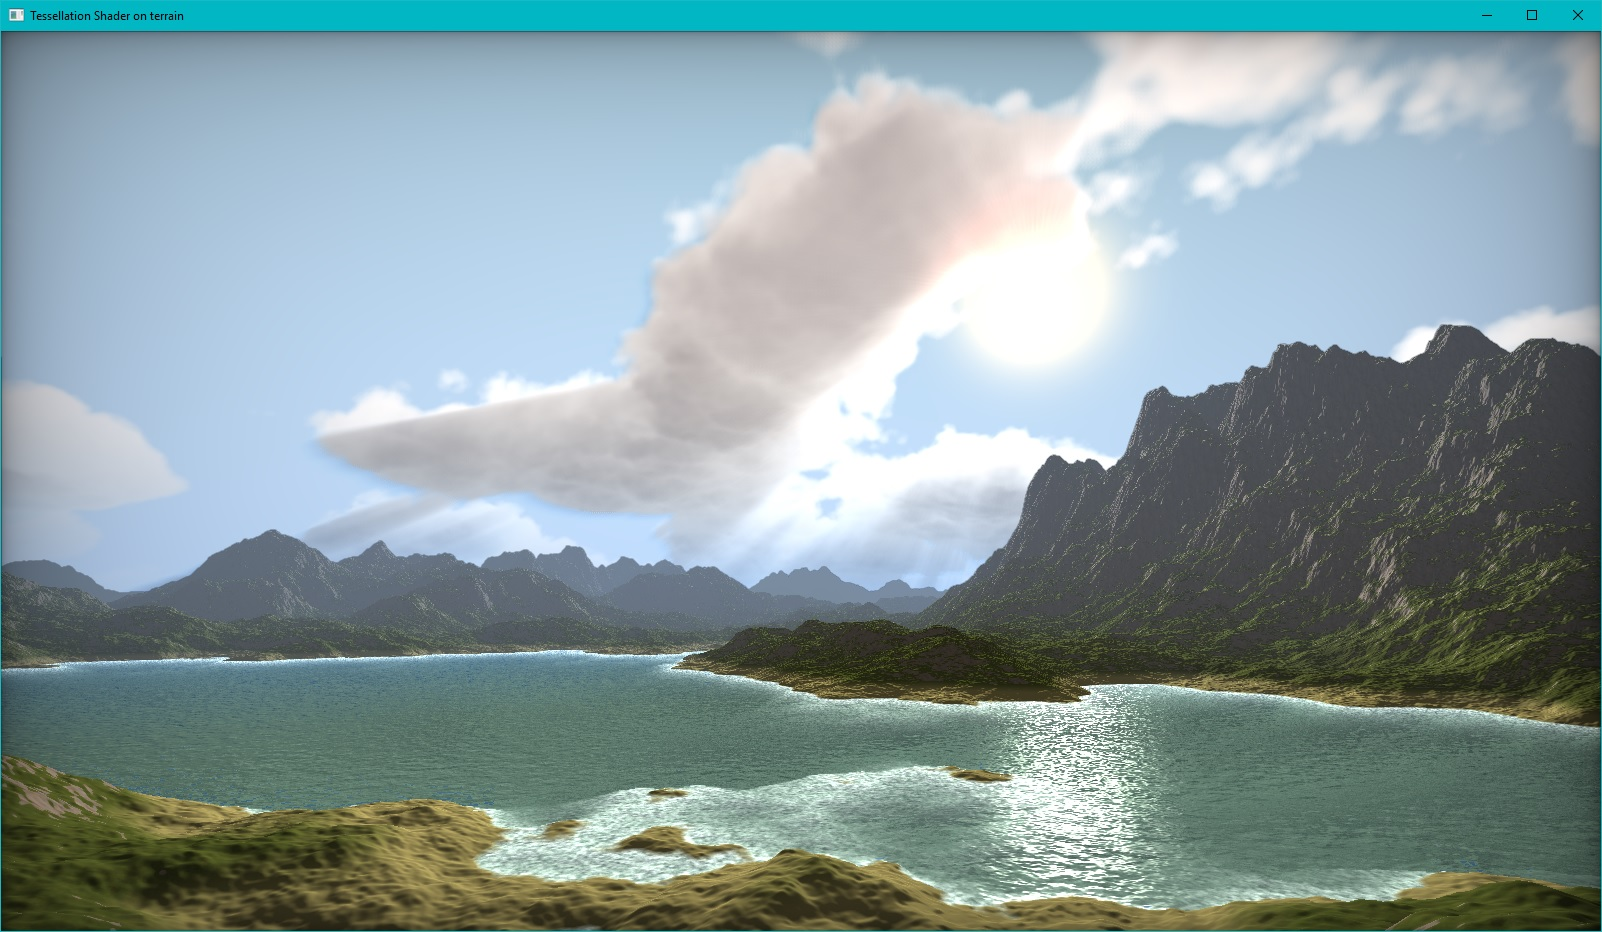
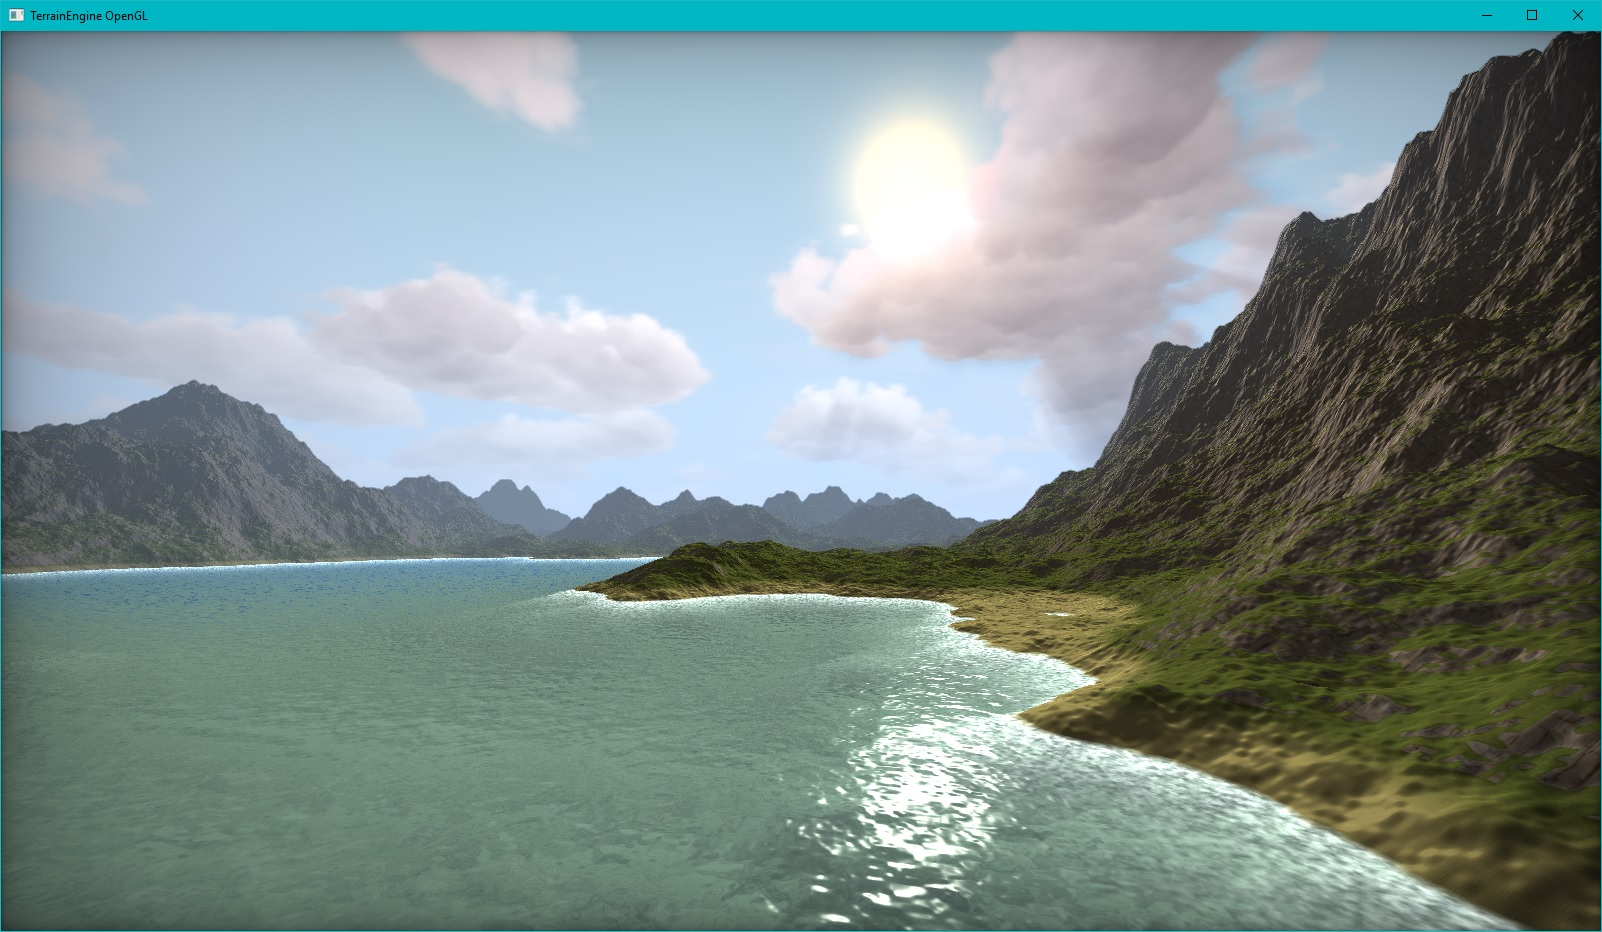
Implement Temporal Reprojection to Clouds rendering increasing performances

diff --git a/VolumetricClouds.cpp b/VolumetricClouds.cpp
@@ -11,7 +11,7 @@ VolumetricClouds::VolumetricClouds(int SW, int SH, Camera * cam): SCR_WIDTH(SW),
 	cloudsPostProcessingFBO = new FrameBufferObject(SW, SH, 2);
 	lastFrameCloudsFBO = new FrameBufferObject(SH, SH, 2);
 
-	this->coverage = 0.4;
+	this->coverage = 0.3;
 
 	/////////////////// TEXTURE GENERATION //////////////////
 
@@ -61,7 +61,7 @@ VolumetricClouds::VolumetricClouds(int SW, int SH, Camera * cam): SCR_WIDTH(SW),
 #define TIMETO(CODE, TASK) 	t1 = glfwGetTime(); CODE; t2 = glfwGetTime(); std::cout << "Time to " + std::string(TASK) + " :" << (t2 - t1)*1e3 << "ms" << std::endl;
 
 
-void VolumetricClouds::draw(glm::mat4 view, glm::mat4 proj, glm::vec3 lightPosition, unsigned int depthMapTex) {
+void VolumetricClouds::draw(glm::mat4 view, glm::mat4 proj, glm::vec3 lightPosition, glm::vec3 lightColor, unsigned int depthMapTex) {
 
 	float t1, t2;
 
@@ -76,7 +76,9 @@ void VolumetricClouds::draw(glm::mat4 view, glm::mat4 proj, glm::vec3 lightPosit
 	cloudsShader.setVec3("cameraPosition", camera->Position);
 	cloudsShader.setFloat("FOV", camera->Zoom);
 	cloudsShader.setVec3("lightPosition", lightPosition);
+	cloudsShader.setVec3("lightColor", lightColor);
 	cloudsShader.setFloat("coverage_multiplier", coverage);
+	cloudsShader.setInt("frameIter", frameIter);
 
 	cloudsShader.setMat4("invViewProj", glm::inverse(proj*view));
 	cloudsShader.setMat4("oldFrameVP", oldFrameVP);
@@ -141,6 +143,9 @@ void VolumetricClouds::draw(glm::mat4 view, glm::mat4 proj, glm::vec3 lightPosit
 
 	//copy last VP matrix
 	oldFrameVP = proj * view;
+
+	//increment frame counter mod 16, for temporal reprojection
+	frameIter = (frameIter + 1)%16;
 }
 
 

diff --git a/Main.cpp b/Main.cpp
@@ -172,6 +172,7 @@ int main()
 
 	while (window.continueLoop())
 	{
+		//glfwSwapInterval(0);
 
 		octaves = getters[1]();
 		df = getters[2]();
@@ -212,6 +213,8 @@ int main()
 		SceneFBO.bind();
 		// render
 		//glEnable(GL_MULTISAMPLE);
+		//glEnable(GL_FRAMEBUFFER_SRGB); //gamma correction
+
 		glEnable(GL_DEPTH_TEST);
 		glEnable(GL_CULL_FACE);
 		glCullFace(GL_BACK);
@@ -235,19 +238,20 @@ int main()
 		glm::mat4 proj = glm::perspective(glm::radians(camera.Zoom), (float)Window::SCR_WIDTH / (float)Window::SCR_HEIGHT, 50.f,10000000.0f);
 
 		// draw terrain
-		//tc.drawTiles(proj, lightPosition, lightColor, fogColor, SceneFBO);
+		tc.drawTiles(proj, lightPosition, lightColor, fogColor, SceneFBO);
 
 		//disable test for quad rendering
 		ScreenQuad::disableTests();
 
 		// scene post processing - blending between main scene texture and clouds texture
 
-		volumetricClouds.draw(view, proj, lightPosition, SceneFBO.depthTex);
+		volumetricClouds.draw(view, proj, lightPosition, lightColor, SceneFBO.depthTex);
 
+		// blend volumetric clouds rendering with terrain and apply some post process
 		unbindCurrentFrameBuffer();
 		Shader& post = PostProcessing.getShader();
 		post.use();
-
+		post.setVec2("resolution", glm::vec2(Window::SCR_WIDTH, Window::SCR_HEIGHT));
 		post.setSampler2D("screenTexture", SceneFBO.tex, 0);
 		post.setSampler2D("cloudTEX", volumetricClouds.getCloudsTexture(), 1);
 

diff --git a/Window.cpp b/Window.cpp
@@ -8,7 +8,7 @@ float Window::lastX = SCR_WIDTH / 2.0f;
 float Window::lastY = SCR_HEIGHT / 2.0f;
 
 
-Window::Window(int& success, Camera * cam)
+Window::Window(int& success, Camera * cam, std::string name) : name(name)
 {
 	// glfw: initialize and configure
 	glfwInit();
@@ -18,7 +18,7 @@ Window::Window(int& success, Camera * cam)
 	glfwWindowHint(GLFW_SAMPLES, 4);
 
 	// glfw window creation										 
-	this->w = glfwCreateWindow(SCR_WIDTH, SCR_HEIGHT, "Tessellation Shader on terrain", NULL, NULL);
+	this->w = glfwCreateWindow(SCR_WIDTH, SCR_HEIGHT, name.c_str(), NULL, NULL);
 	if (!this->w)
 	{
 		std::cout << "Failed to create GLFW window" << std::endl;

diff --git a/VolumetricClouds.h b/VolumetricClouds.h
@@ -13,7 +13,7 @@ class VolumetricClouds
 {
 public:
 	VolumetricClouds(int SW, int SH, Camera * cam);
-	void draw(glm::mat4 view, glm::mat4 proj, glm::vec3 lightPosition, unsigned int depthMap);
+	void draw(glm::mat4 view, glm::mat4 proj, glm::vec3 lightPosition, glm::vec3 lightColor, unsigned int depthMap);
 	~VolumetricClouds();
 
 	unsigned int getCloudsTexture() {
@@ -35,7 +35,7 @@ private:
 	float coverage;
 	Camera * camera;
 	ScreenQuad * volumetricCloudsShader, * ppShader, * copyShader;
-
+	int frameIter = 0;
 	FrameBufferObject * cloudsFBO, *cloudsPostProcessingFBO, * lastFrameCloudsFBO;
 
 	unsigned int perlinTex, worley32, weatherTex;

diff --git a/TileController.cpp b/TileController.cpp
@@ -28,7 +28,7 @@ TileController::TileController(float scale, float disp, Camera * camera, Tessell
 	dudvMap = TextureFromFile("waterDUDV.png", "resources", false);
 	normalMap = TextureFromFile("normalMap.png", "resources", false);
 
-	waterHeight = 128.0;
+	waterHeight = 128.0 + 50.0;
 
 	position.resize(gridLenght*gridLenght);
 	for (int i = 0; i < gridLenght; i++) {

diff --git a/Window.h b/Window.h
@@ -11,7 +11,7 @@ class Window
 {
 public:
 	//initializer
-	Window(int& success, Camera * cam);
+	Window(int& success, Camera * cam, std::string name = "TerrainEngine OpenGL");
 	~Window();
 	GLFWwindow * w;
 	
@@ -58,6 +58,8 @@ private:
 	static float lastY;
 
 	static Camera * camera;
+
+	std::string name;
 };
 
 
